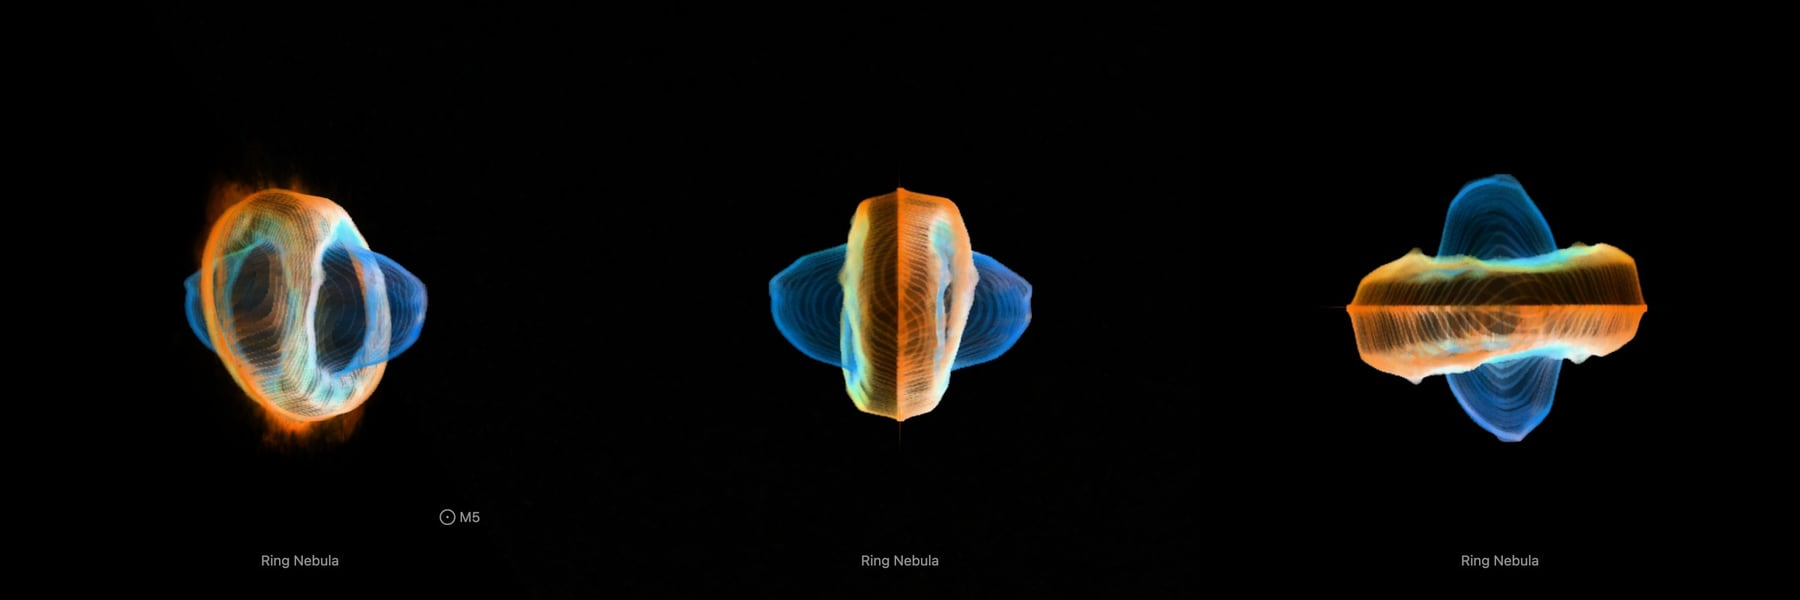
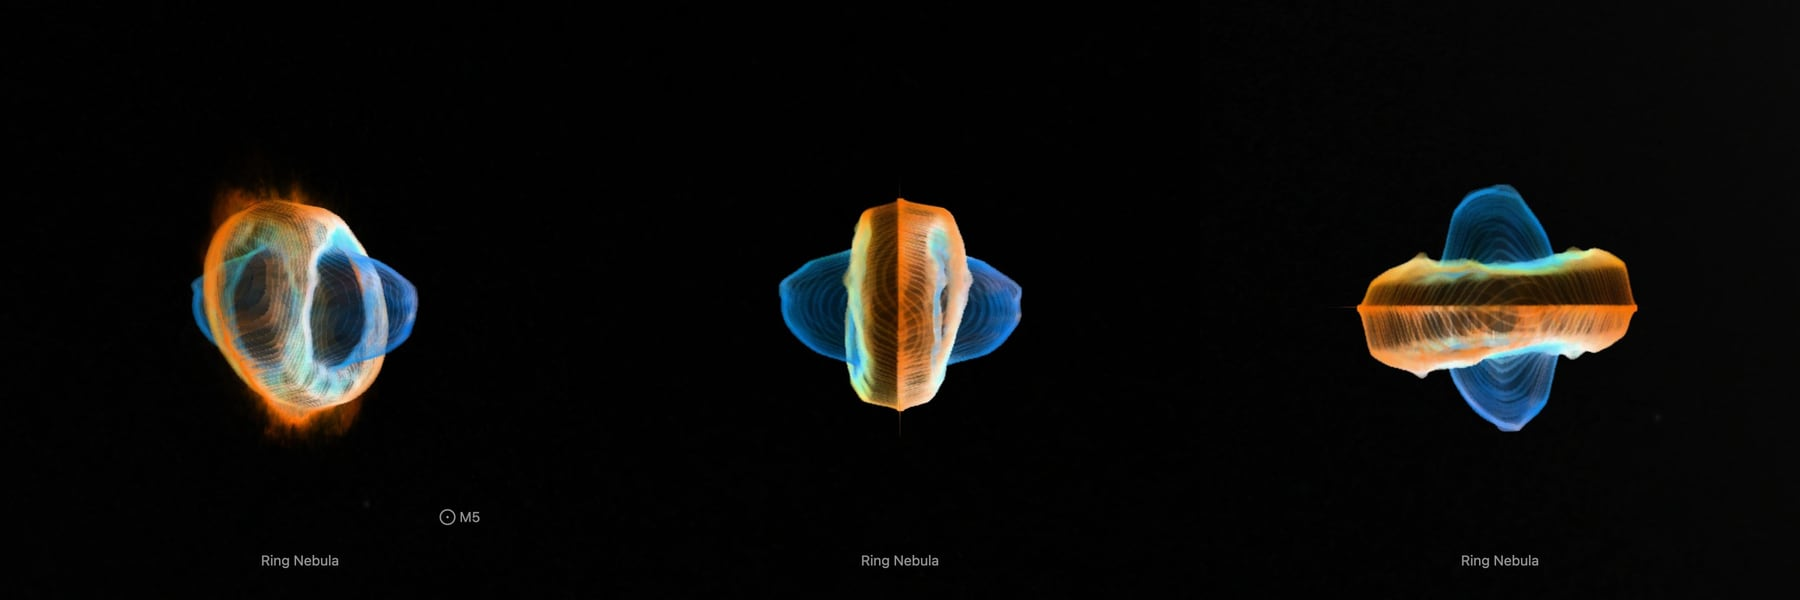
fix(nebulae): draw a parsec bank's leaves exactly on their quads, so the Ring's terraces line up and the nine nebula pictures have their true size

Changed region(s): [[0.7467, 0.27, 0.9333, 0.75], [0.0933, 0.3, 0.2489, 0.75], [0.4044, 0.3, 0.5911, 0.72]]

diff --git a/packages/bake/src/image-layers/prepare.ts b/packages/bake/src/image-layers/prepare.ts
@@ -29,7 +29,17 @@ function quaternionFromBasis(x: Vec3, y: Vec3, z: Vec3): [number, number, number
   else { const s=Math.sqrt(1+m22-m00-m11)*2; q=[(m02+m20)/s,(m12+m21)/s,s/4,(m10-m01)/s]; }
   return q;
 }
-function compileStyle(vertices: Quad['verticesUnits'], texture: string, width: number, height: number, index: number): Quad['style'] {
+/** The leaf compiler draws a leaf this many CSS pixels beyond its quad on every side, at LEAF_PIXELS_PER_UNIT. */
+const LEAF_OUTSET_PIXELS=0.6,LEAF_PIXELS_PER_UNIT=50;
+/** A leaf's style. The compiler's outset is 12 pc on a kiloparsec bank and unseen; on a parsec bank it is 0.012 pc, 5% of
+ * a picture half a parsec across, and leaves that share a picture's light no longer line up. `exact` hands the compiler
+ * the quad drawn in by the outset, so the leaf is drawn on the quad itself. */
+function compileStyle(quad: Quad['verticesUnits'], texture: string, width: number, height: number, index: number, exact = false): Quad['style'] {
+  let vertices = quad;
+  if (exact) { const inset = LEAF_OUTSET_PIXELS / LEAF_PIXELS_PER_UNIT, right = difference(quad[1], quad[0]), down = difference(quad[3], quad[0]);
+    if (Math.hypot(...right) <= 2 * inset || Math.hypot(...down) <= 2 * inset) throw new RangeError(`${texture}: the leaf is ${(Math.hypot(...right) * LEAF_PIXELS_PER_UNIT).toFixed(2)} by ${(Math.hypot(...down) * LEAF_PIXELS_PER_UNIT).toFixed(2)} CSS pixels, under the compiler's outset.`);
+    const u = scale(norm(right), inset), v = scale(norm(down), inset), move = (vertex: Vec3, a: number, b: number): Vec3 => [vertex[0] + a * u[0] + b * v[0], vertex[1] + a * u[1] + b * v[1], vertex[2] + a * u[2] + b * v[2]];
+    vertices = [move(quad[0], 1, 1), move(quad[1], -1, 1), move(quad[2], -1, -1), move(quad[3], 1, -1)]; }
   const polygon: Polygon = { vertices, uvs: [[0,0],[1,0],[1,1],[0,1]], texture,
     textureImageSource: { url: texture, width, height }, texturePresentation: { backend:'image',lighting:'source',projection:'projective' }, doubleSided:true };
   const plan=computeTextureAtlasPlanPublic(polygon,index,{tileSize:50,layerElevation:50,seamBleed:0});
@@ -111,6 +121,8 @@ export async function prepareImageLayers(options: { sourceDirectory: string; out
   const unitsPerKpc=options.recipe.geometry.unit==='pc'?1000:1,{rgb,info,foreground,companions,colorTie}=await prepareImageLayerFace(options);
   const recipe:ImageLayerRecipe=unitsPerKpc===1?options.recipe:{...options.recipe,target:{...options.recipe.target,distancePc:options.recipe.target.distancePc*unitsPerKpc},
     geometry:{...options.recipe.geometry,thicknessKpc:options.recipe.geometry.thicknessKpc*unitsPerKpc,supportRadiusKpc:options.recipe.geometry.supportRadiusKpc*unitsPerKpc}};
+  // A parsec bank's leaves are drawn on their quads exactly (see compileStyle).
+  const styleOf=(vertices:Quad['verticesUnits'],texture:string,width:number,height:number,index:number)=>compileStyle(vertices,texture,width,height,index,unitsPerKpc!==1);
   const base=Buffer.alloc(info.width*info.height*4), floor=recipe.bake.backgroundFloor*255;
   for(let p=0;p<info.width*info.height;p++) { const i=p*3,o=p*4,r=Math.max(0,rgb[i]-floor),g=Math.max(0,rgb[i+1]-floor),b=Math.max(0,rgb[i+2]-floor),a=Math.max(r,g,b);
     base[o]=a?Math.round(r*255/a):0;base[o+1]=a?Math.round(g*255/a):0;base[o+2]=a?Math.round(b*255/a):0;base[o+3]=Math.round(a*255/(255-floor)); }
@@ -204,10 +216,10 @@ export async function prepareImageLayers(options: { sourceDirectory: string; out
   const flat=recipe.bake.flat===true;
   for(let layer=0;!flat&&layer<recipe.geometry.depthWeights.length;layer++){const w=recipe.geometry.depthWeights[layer],rgba=Buffer.from(diffuseSmall);for(let p=0;p<dw*dh;p++){const i=4*p,a=rgba[i+3]/255;rgba[i+3]=Math.round(255*(1-(1-a)**w));}
     const offset=thickness*(layer/(recipe.geometry.depthWeights.length-1)-.5),path=`layers/z-${String(layer).padStart(2,'0')}.webp`,bytes=await encode(rgba,dw,dh,path),v:[Vec3,Vec3,Vec3,Vec3]=[intersect(u0,v0,offset),intersect(u1,v0,offset),intersect(u1,v1,offset),intersect(u0,v1,offset)];
-    leaves.push({id:`z-${layer}`,axis:'z',offsetKpc:offset,centerUnits:scale(add(...v),.25),doubleSided:true,texturePath:path,widthPx:dw,heightPx:dh,verticesUnits:v,uvs:[[0,0],[1,0],[1,1],[0,1]],style:compileStyle(v,path,dw,dh,leaves.length),bytes:bytes.length});}
-  {const path='layers/z-detail.webp',bytes=await encode(flat?extractSized(base,info.width,left,top,right+1,bottom+1):residualCrop,cropWidth,cropHeight,path),v:[Vec3,Vec3,Vec3,Vec3]=[intersect(u0,v0,0),intersect(u1,v0,0),intersect(u1,v1,0),intersect(u0,v1,0)];leaves.push({id:'z-detail',axis:'z',offsetKpc:0,centerUnits:scale(add(...v),.25),doubleSided:true,texturePath:path,widthPx:cropWidth,heightPx:cropHeight,verticesUnits:v,uvs:[[0,0],[1,0],[1,1],[0,1]],style:compileStyle(v,path,cropWidth,cropHeight,leaves.length),bytes:bytes.length});
+    leaves.push({id:`z-${layer}`,axis:'z',offsetKpc:offset,centerUnits:scale(add(...v),.25),doubleSided:true,texturePath:path,widthPx:dw,heightPx:dh,verticesUnits:v,uvs:[[0,0],[1,0],[1,1],[0,1]],style:styleOf(v,path,dw,dh,leaves.length),bytes:bytes.length});}
+  {const path='layers/z-detail.webp',bytes=await encode(flat?extractSized(base,info.width,left,top,right+1,bottom+1):residualCrop,cropWidth,cropHeight,path),v:[Vec3,Vec3,Vec3,Vec3]=[intersect(u0,v0,0),intersect(u1,v0,0),intersect(u1,v1,0),intersect(u0,v1,0)];leaves.push({id:'z-detail',axis:'z',offsetKpc:0,centerUnits:scale(add(...v),.25),doubleSided:true,texturePath:path,widthPx:cropWidth,heightPx:cropHeight,verticesUnits:v,uvs:[[0,0],[1,0],[1,1],[0,1]],style:styleOf(v,path,cropWidth,cropHeight,leaves.length),bytes:bytes.length});
     // The runtime shows one stack per view axis: a flat bank gives each the same plane, so the disc draws from every side.
-    if(flat)for(const axis of ['x','y'] as const)leaves.push({id:`${axis}-detail`,axis,offsetKpc:0,centerUnits:scale(add(...v),.25),doubleSided:true,texturePath:path,widthPx:cropWidth,heightPx:cropHeight,verticesUnits:v,uvs:[[0,0],[1,0],[1,1],[0,1]],style:compileStyle(v,path,cropWidth,cropHeight,leaves.length),bytes:0});}
+    if(flat)for(const axis of ['x','y'] as const)leaves.push({id:`${axis}-detail`,axis,offsetKpc:0,centerUnits:scale(add(...v),.25),doubleSided:true,texturePath:path,widthPx:cropWidth,heightPx:cropHeight,verticesUnits:v,uvs:[[0,0],[1,0],[1,1],[0,1]],style:styleOf(v,path,cropWidth,cropHeight,leaves.length),bytes:0});}
   const weightAt=(z:number)=>{const q=(z+1)/2*(recipe.geometry.depthWeights.length-1),i=Math.min(recipe.geometry.depthWeights.length-2,Math.max(0,Math.floor(q))),t=q-i;return ((recipe.geometry.depthWeights[i]??0)*(1-t)+(recipe.geometry.depthWeights[i+1]??0)*t)*recipe.geometry.depthWeights.length;};
   const side=async(axis:'x'|'y')=>{const slices=recipe.bake.crossAxisSlices,sourceAlong=axis==='x'?info.height:info.width,along=Math.min(sourceAlong,recipe.bake.crossAxisAlongPixels),depth=recipe.bake.crossAxisDepthPixels,crossSize=axis==='x'?info.width:info.height;
     for(let s=0;s<slices;s++){const rgba=Buffer.alloc(along*depth*4);
@@ -221,7 +233,7 @@ export async function prepareImageLayers(options: { sourceDirectory: string; out
       const alongA=2*aMin/along-1,alongB=2*(aMax+1)/along-1;
       const v:Quad['verticesUnits']=axis==='x'?[intersect(coordinate,-alongA,hi),intersect(coordinate,-alongB,hi),intersect(coordinate,-alongB,lo),intersect(coordinate,-alongA,lo)]:[intersect(alongA,-coordinate,hi),intersect(alongB,-coordinate,hi),intersect(alongB,-coordinate,lo),intersect(alongA,-coordinate,lo)];
       const offset=axis==='x'?(v[0][0]+v[1][0])/2:(v[0][1]+v[1][1])/2;
-      leaves.push({id:`${axis}-${s}`,axis,offsetKpc:offset,centerUnits:scale(add(...v),.25),doubleSided:true,texturePath:path,widthPx:sideWidth,heightPx:depth,verticesUnits:v,uvs:[[0,0],[1,0],[1,1],[0,1]],style:compileStyle(v,path,sideWidth,depth,leaves.length),bytes:bytes.length}); }};
+      leaves.push({id:`${axis}-${s}`,axis,offsetKpc:offset,centerUnits:scale(add(...v),.25),doubleSided:true,texturePath:path,widthPx:sideWidth,heightPx:depth,verticesUnits:v,uvs:[[0,0],[1,0],[1,1],[0,1]],style:styleOf(v,path,sideWidth,depth,leaves.length),bytes:bytes.length}); }};
   if(!flat){await side('x');await side('y');}
   if(bulgeModel&&bulgeTau){
     // The bulge's light, spread along each of our sight lines by the spheroid's density: slices parallel to the disc for the
@@ -242,7 +254,7 @@ export async function prepareImageLayers(options: { sourceDirectory: string; out
     const scaleAt=(u:number,v:number,tau:number)=>{const ray=rayLocal(u,v),path=step/Math.abs(dot(diskNormal,norm(ray)));let sum=0;for(const z of offsets)sum+=bulgeModel.density(intersect(u,v,z))*path;return sum>0?tau/sum:0;};
     const grid=Array.from({length:sw*sh},(_,k)=>{const i=k%sw,j=Math.floor(k/sw),{tau,color}=cell(i,j,sw,sh),{u,v}=at(i,j,sw,sh);return {u,v,color,scale:scaleAt(u,v,tau),path:step/Math.abs(dot(diskNormal,norm(rayLocal(u,v))))};});
     const push=async(id:string,axis:LayerAxis,rgba:Buffer,width:number,height:number,v:Quad['verticesUnits'],offset:number)=>{const path=`layers/${id}.webp`,bytes=await encode(rgba,width,height,path);
-      leaves.push({id,axis,offsetKpc:offset,centerUnits:scale(add(...v),.25),doubleSided:true,texturePath:path,widthPx:width,heightPx:height,verticesUnits:v,uvs:[[0,0],[1,0],[1,1],[0,1]],style:compileStyle(v,path,width,height,leaves.length),bytes:bytes.length});};
+      leaves.push({id,axis,offsetKpc:offset,centerUnits:scale(add(...v),.25),doubleSided:true,texturePath:path,widthPx:width,heightPx:height,verticesUnits:v,uvs:[[0,0],[1,0],[1,1],[0,1]],style:styleOf(v,path,width,height,leaves.length),bytes:bytes.length});};
     for(const [k,z] of offsets.entries()){const rgba=Buffer.alloc(sw*sh*4);
       for(const [t,g] of grid.entries()){const tau=g.scale*bulgeModel.density(intersect(g.u,g.v,z))*g.path,o=4*t;for(let c=0;c<3;c++)rgba[o+c]=Math.round(g.color[c]);rgba[o+3]=Math.round(255*(1-Math.exp(-tau)));}
       await push(`bulge-z-${String(k).padStart(2,'0')}`,'z',rgba,sw,sh,[intersect(bu0,bv0,z),intersect(bu1,bv0,z),intersect(bu1,bv1,z),intersect(bu0,bv1,z)],z);}
@@ -273,13 +285,14 @@ export async function prepareImageLayers(options: { sourceDirectory: string; out
     const bu0=2*bl/W-1,bu1=2*(br+1)/W-1,bv0=1-2*bt/info.height,bv1=1-2*(bb+1)/info.height,name=(axis:LayerAxis,index:number)=>`shape-${axis}-${String(index).padStart(2,'0')}`;
     // The walls' leaves keep their alpha exact: two terraces share a pixel's light, and a coarser alpha shows as rings.
     const push=async(id:string,axis:LayerAxis,rgba:Buffer,width:number,height:number,v:Quad['verticesUnits'],offset:number)=>{const path=`layers/${id}.webp`,bytes=await encode(rgba,width,height,path,true);
-      leaves.push({id,axis,offsetKpc:offset,centerUnits:scale(add(...v),.25),doubleSided:true,texturePath:path,widthPx:width,heightPx:height,verticesUnits:v,uvs:[[0,0],[1,0],[1,1],[0,1]],style:compileStyle(v,path,width,height,leaves.length),bytes:bytes.length});};
+      leaves.push({id,axis,offsetKpc:offset,centerUnits:scale(add(...v),.25),doubleSided:true,texturePath:path,widthPx:width,heightPx:height,verticesUnits:v,uvs:[[0,0],[1,0],[1,1],[0,1]],style:styleOf(v,path,width,height,leaves.length),bytes:bytes.length});};
     // How far in depth each pixel's light is shared, on each wall, and the sum of its shares over the terraces.
     const spread=[near,far].map(wall=>{const half=new Float32Array(bw*bh),total=new Float32Array(bw*bh),at=(x:number,y:number,otherwise:number)=>{const value=x<0||y<0||x>=bw||y>=bh?NaN:wall[(bt+y)*W+bl+x]!;return Number.isNaN(value)?otherwise:value;};
       for(let y=0;y<bh;y++)for(let x=0;x<bw;x++){const here=at(x,y,NaN),t=y*bw+x;if(Number.isNaN(here))continue;
         half[t]=Math.max(step,Math.hypot(at(x+1,y,here)-at(x-1,y,here),at(x,y+1,here)-at(x,y-1,here))/2*TERRACE_SHARE_PIXELS);
         for(let k=0;k<slices;k++)total[t]+=Math.max(0,1-Math.abs(here-(-reach+k*step))/half[t]!);}
       return {half,total};});
+    const least=Math.ceil(4/LEAF_PIXELS_PER_UNIT/(Math.hypot(...difference3(intersect(bu0,bv0,0),intersect(bu1,bv0,0)))/bw));
     // A terrace behind the star holds only the far wall's smooth light: half the picture's resolution carries it.
     const halve=(rgba:Buffer,width:number,height:number)=>{const out=Buffer.alloc(width*height);for(let y=0;y<height/2;y++)for(let x=0;x<width/2;x++){const lit=[0,0,0],plain=[0,0,0];let opacity=0;
         for(const [i,j] of [[0,0],[1,0],[0,1],[1,1]] as const){const o=4*((2*y+j)*width+2*x+i),a=rgba[o+3]!;opacity+=a;for(let c=0;c<3;c++){lit[c]!+=rgba[o+c]!*a;plain[c]!+=rgba[o+c]!;}}
@@ -294,6 +307,9 @@ export async function prepareImageLayers(options: { sourceDirectory: string; out
         for(let c=0;c<3;c++)rgba[o+c]=alpha>0?Math.min(255,Math.round((nearHue[3*p+c]!*front+(1-front)*farHue[3*p+c]!*back)/alpha)):nearHue[3*p+c]!;
         rgba[o+3]=stored;if(stored){x0=Math.min(x0,x);x1=Math.max(x1,x);y0=Math.min(y0,y);y1=Math.max(y1,y);if(front>0)detailed=true;}}
       if(x1<x0)continue;
+      // A terrace is a few CSS pixels across at least, with clear texels around its light: the leaf compiler cannot draw less.
+      while(x1-x0+1<least&&(x0>0||x1<bw-1)){if(x0>0)x0--;if(x1<bw-1&&x1-x0+1<least)x1++;}
+      while(y1-y0+1<least&&(y0>0||y1<bh-1)){if(y0>0)y0--;if(y1<bh-1&&y1-y0+1<least)y1++;}
       if(!detailed){if((x1-x0)%2===0){if(x1<bw-1)x1++;else x0--;}if((y1-y0)%2===0){if(y1<bh-1)y1++;else y0--;}}
       const u0=2*(bl+x0)/W-1,u1=2*(bl+x1+1)/W-1,v0=1-2*(bt+y0)/info.height,v1=1-2*(bt+y1+1)/info.height,offset=toward*depth,width=x1-x0+1,height=y1-y0+1,crop=extractSized(rgba,bw,x0,y0,x1+1,y1+1);
       await push(name('z',k),'z',detailed?crop:halve(crop,width,height),detailed?width:width/2,detailed?height:height/2,[intersect(u0,v0,offset),intersect(u1,v0,offset),intersect(u1,v1,offset),intersect(u0,v1,offset)],offset);}

diff --git a/packages/bake/src/image-layers/shape.test.ts b/packages/bake/src/image-layers/shape.test.ts
@@ -7,7 +7,7 @@ import sharp from 'sharp';
 import { parseImageLayerRecipe } from './config.ts';
 import { prepareImageLayers } from './prepare.ts';
 
-type Leaf = { id: string; texturePath: string; verticesUnits: number[][] };
+type Leaf = { id: string; texturePath: string; verticesUnits: number[][]; style: { width: string; height: string; transform: string } };
 type Texture = { data: Buffer; width: number; height: number; origin: number[]; right: number[]; down: number[]; depth: number };
 
 const SIZE = 64;
@@ -56,6 +56,14 @@ test('a nebula\'s walls hold the light inside their outline and add up to the ph
     const leaves = bank.banks.find(entry => entry.axis === 'z')!.leaves as Leaf[], terraces = leaves.filter(leaf => leaf.id.startsWith('shape-z-'));
     assert.ok(terraces.length > 8 && terraces.length <= 17, `${terraces.length} terraces`);
     for (const axis of ['x', 'y'] as const) assert.ok(bank.banks.find(entry => entry.axis === axis)!.leaves.some(leaf => leaf.id.startsWith(`shape-${axis}-`)), `${axis} curtains`);
+    // A parsec bank's leaves are drawn on their quads: the box each style gives, through its matrix, is its quad's size at
+    // 50 CSS pixels per unit. Drawn beyond their quads, terraces that share a pixel's light overlap as rings.
+    for (const entry of bank.banks) for (const leaf of entry.leaves as Leaf[]) {
+      const [corner, right, , down] = leaf.verticesUnits as [number[], number[], number[], number[]], matrix = /matrix3d\(([^)]+)\)/.exec(leaf.style.transform)![1]!.split(',').map(Number);
+      const drawn = [parseFloat(leaf.style.width) * Math.hypot(matrix[0]!, matrix[1]!, matrix[2]!), parseFloat(leaf.style.height) * Math.hypot(matrix[4]!, matrix[5]!, matrix[6]!)];
+      const quad = [right, down].map(vertex => 50 * Math.hypot(...vertex.map((value, axis) => value - corner[axis]!)));
+      assert.ok(Math.abs(drawn[0]! - quad[0]!) < 0.01 && Math.abs(drawn[1]! - quad[1]!) < 0.01, `${leaf.id}: drawn ${drawn.map(value => value.toFixed(3)).join(' x ')} CSS px for a quad of ${quad.map(value => value.toFixed(3)).join(' x ')}`);
+    }
     const textures = await Promise.all(leaves.map(leaf => texture(join(root, 'shaped'), leaf)));
     // Farthest from the Sun first: the frame's z points away from it.
     const order = textures.map((leaf, index) => ({ leaf, id: leaves[index]!.id })).sort((a, b) => b.leaf.depth - a.leaf.depth);

diff --git a/src/objects/m57-layers/README.md b/src/objects/m57-layers/README.md
@@ -21,7 +21,7 @@ ESA/Hubble's photograph of the Ring Nebula, laid on the walls the nebula's spect
 - **Near and far:** one picture cannot tell the wall in front of the star from the wall behind it. The far wall takes half the optical depth of the smooth light, in its color; the near wall takes the rest, with every fine detail: O'Dell et al. find the dark knots show best against background material, so they are in front. Where the light is smooth the two walls are alike. Seen from the Sun, the near wall over the far wall is the photograph.
 - **Joins:** the lobe's wall is led onto the shell's over the outer 30% of the lobe's radius, so the lobe opens from the shell's inner lip, where the paper's model begins the Lobes; the shell's wall is led onto the picture's plane over the outer 10% of its outline. Both are presentation choices: without them the two surfaces' edges show as outlines.
 - **Outside the shell:** light outside the Main Ring's outline, its outer glow and the halo loops the picture reaches, keeps no depth. It lies on one plane through the star, facing the Sun.
-- **Drawing:** from the front, 56 terraces parallel to the picture, at the picture's resolution, each holding the wall light at its depth; from the side, 56 and 56 curtains through the picture's columns and rows. A browser draws each terrace as a layer of its own, so a wall's light passes from one terrace to the next over at least 12 face pixels ([prepare.ts](../../../packages/bake/src/image-layers/prepare.ts), [shape.ts](../../../packages/bake/src/image-layers/shape.ts)).
+- **Drawing:** from the front, 56 terraces parallel to the picture, at the picture's resolution, each holding the wall light at its depth; from the side, 56 and 56 curtains through the picture's columns and rows. A browser draws each terrace as a layer of its own, so a wall's light passes from one terrace to the next over at least 12 face pixels, and every leaf is drawn on its quad exactly: the leaf compiler's outset of 0.6 CSS px, unseen on a galaxy, is 2.5″ here and made the terraces overlap as rings ([prepare.ts](../../../packages/bake/src/image-layers/prepare.ts), [shape.ts](../../../packages/bake/src/image-layers/shape.ts)).
 - **Size:** 2.10 × 2.10 arcmin, 0.48 pc wide at 790 pc.
 - **Rim:** the picture fades out on a round rim between 70% and 98% of half its short side, so no straight edge shows.
 
@@ -43,7 +43,7 @@ The bake's test ([shape.test.ts](../../../packages/bake/src/image-layers/shape.t
 - The walls are the smooth ellipsoids of the fitted velocity ellipses. The paper calls the Main Ring irregular and not symmetric, and says it has no evidence about the form of the Lobes, bubbles or almost open; they are drawn as closed ellipsoids.
 - The expansion law rests on the 2007 paper's assumption about the nebula's size along the sight line (O'Dell et al. 2013, Sect. III.1). Kastner et al. find the molecular shell, just outside the ionized gas, moving at 24 km/s along the sight line: deeper than the [N II] wall drawn here, which the picture's own lines give.
 - Other tilts are published: O'Dell et al. (2013) derive 13.5° from their own tip speeds, and Kastner et al. find the molecular shell within about 2° of pole-on with openings inclined 12° at position angle 160°. Their text does not say which end is nearer, so that tilt is not drawn.
-- As the page opens, the lobe shows as a ringed bulge and the shell's rim as a brighter band (the first evidence image). The terraces add up to the photograph when summed outside the browser, so the cause is in how the browser draws the steep walls' terraces; it is not found yet.
+- As the page opens a hairline can show along the shell's rim, where the walls meet the picture's plane. Close up, a steep wall's terraces show as fine steps.
 - From the side the picture's detail is soft: the curtains are 256 pixels across.
 - The bank is 1.3 MB, 1.1 MB of it for the view the page opens on; the flat picture was 0.4 MB.
 - NOX removed the stars. The glow of the brightest remains, and compact light of the nebula's own can go with them. A second pass over a smaller copy, which takes saturated stars, also took real nebula here, so it is not used.

diff --git a/docs/messier/README.md b/docs/messier/README.md
@@ -49,6 +49,8 @@ Each tile is the object's own page in headless Chromium at 1440 × 900, device p
 - The image-layer bulge ([bulge.ts](../../packages/bake/src/image-layers/bulge.ts)): `geometry.bulge.secondDisc` and `geometry.bulge.bar` carry the second exponential disc and the Ferrers bar of an S4G fit as disc light. The bulge ends on its own spheroid, on the sky and in depth, not on the box of its slices. On a flat bank the side curtains take over when the camera looks along the disc; before, the face-on slices always won and the bulge looked like a stack of plates. S4G tabulates a disc's central brightness face-on; the recipe takes it as projected on the sky. M81 and NGC 253, whose bulges predate this change, carried the face-on value and are corrected with it ([M81](../../src/objects/m81-layers/README.md#evidence)). `geometry.bulge.galaxyDisc` gives the spheroid the galaxy's own disc where the picture does not lie on it (a picture facing the Sun), and `geometry.bulge.edgeDisc` carries the edge-on disc of a fit like the Sombrero's.
 - The image-layer walls ([shape.ts](../../packages/bake/src/image-layers/shape.ts)): `geometry.shape` lays a nebula's picture on the walls its spectra give. Each emission line's published speed along the sight line, over the published expansion law, is a depth; the picture's light inside the outline goes onto the wall in front of the star and the wall behind it, at the picture's own resolution, and from the Sun the two add up to the photograph. An even fill of a published ellipsoid around the flat picture was tried first and dropped: it guessed where the light lies.
 
+- A parsec bank's leaves are drawn on their quads exactly ([prepare.ts](../../packages/bake/src/image-layers/prepare.ts)). The leaf compiler draws a leaf 0.6 CSS px beyond its quad on every side: 12 pc on a kiloparsec bank, but 0.012 pc on a parsec bank, which drew the nine nebula pictures 0.2 to 5% too large.
+
 - `remove-stars` in the Nebula Lab ([star removal](../../labs/nebula/docs/star-removal.md)): the star-free copy of a bank's picture. NOX removes the stars of the 26 flat galaxy pictures and the nine nebula photographs before the bake. On a galaxy the glow it leaves around a bright star is measured and filled from the ring around it. On M16, M20, M76 and M97 a second pass over a quarter-size copy takes the saturated stars the first pass leaves. Before, only stars Gaia certifies as Milky Way stars were removed, and the brightest stayed.
 
 The six volumes use the Nebula Lab route of [M49](../../src/objects/m49-volume/README.md#method) unchanged; their recipes are `labs/nebula/models/m59` to `m89`.
